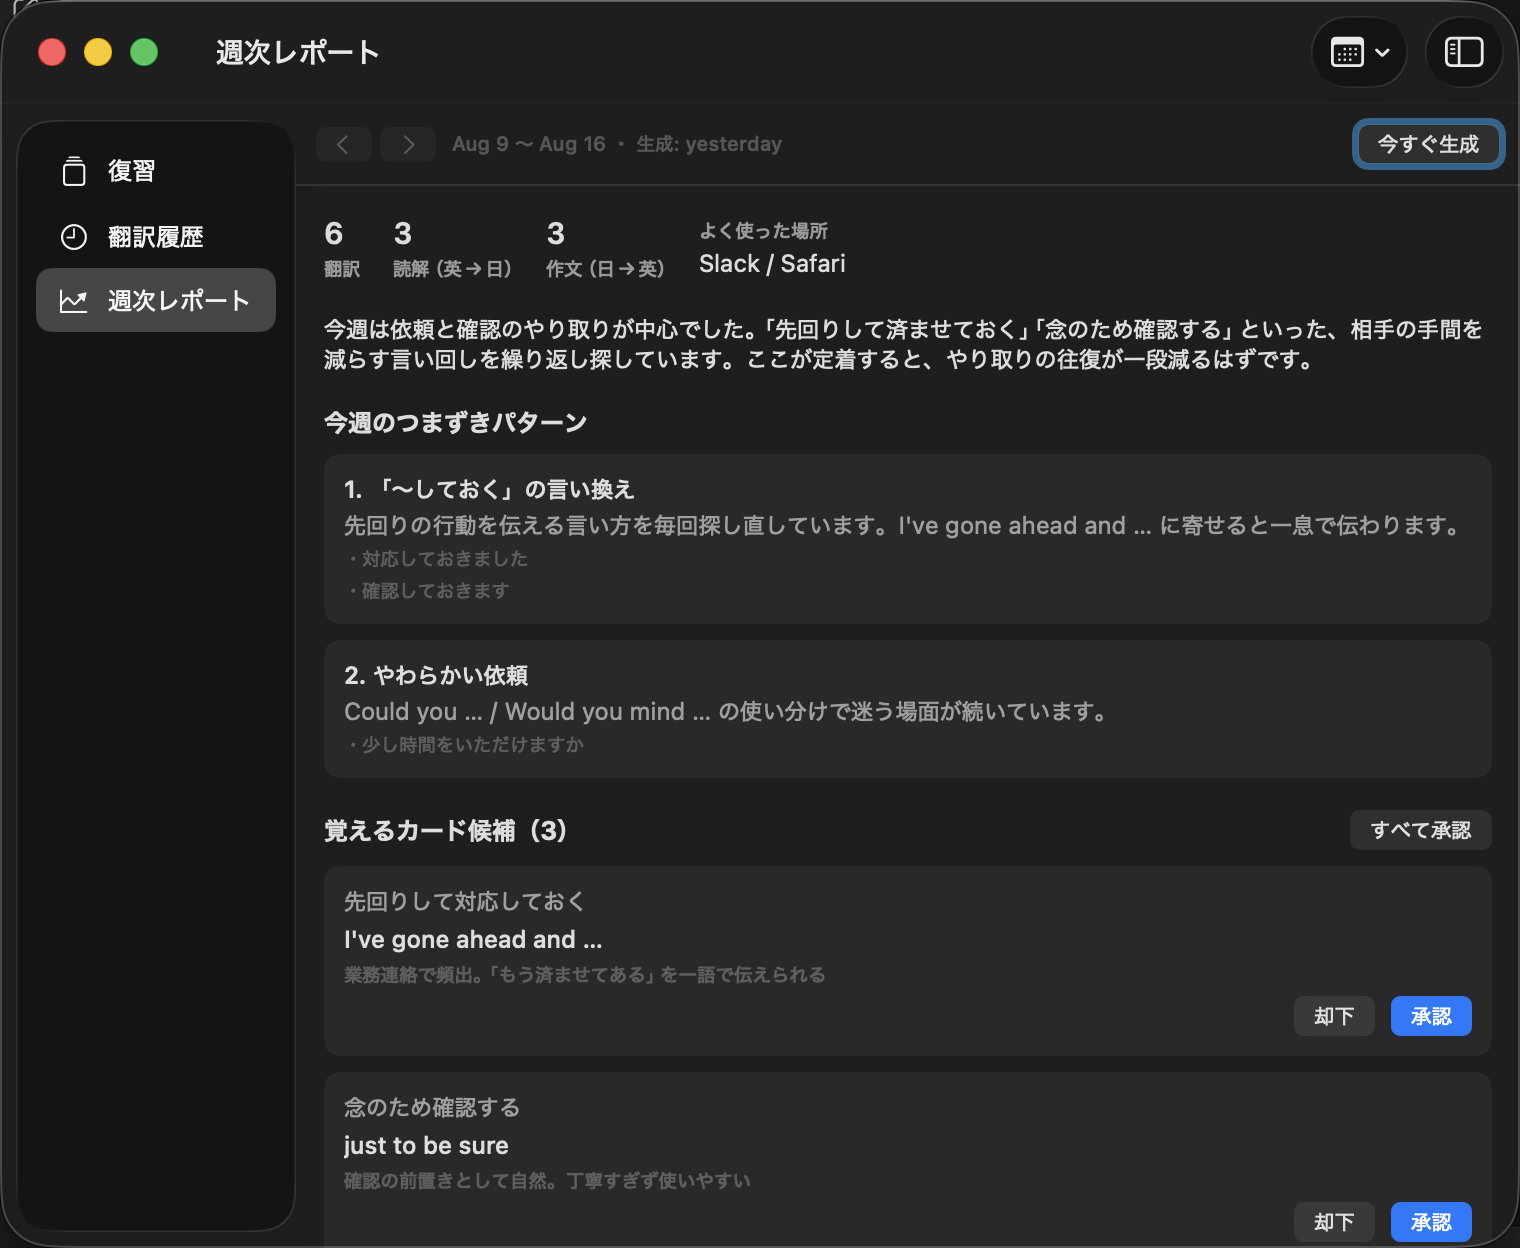
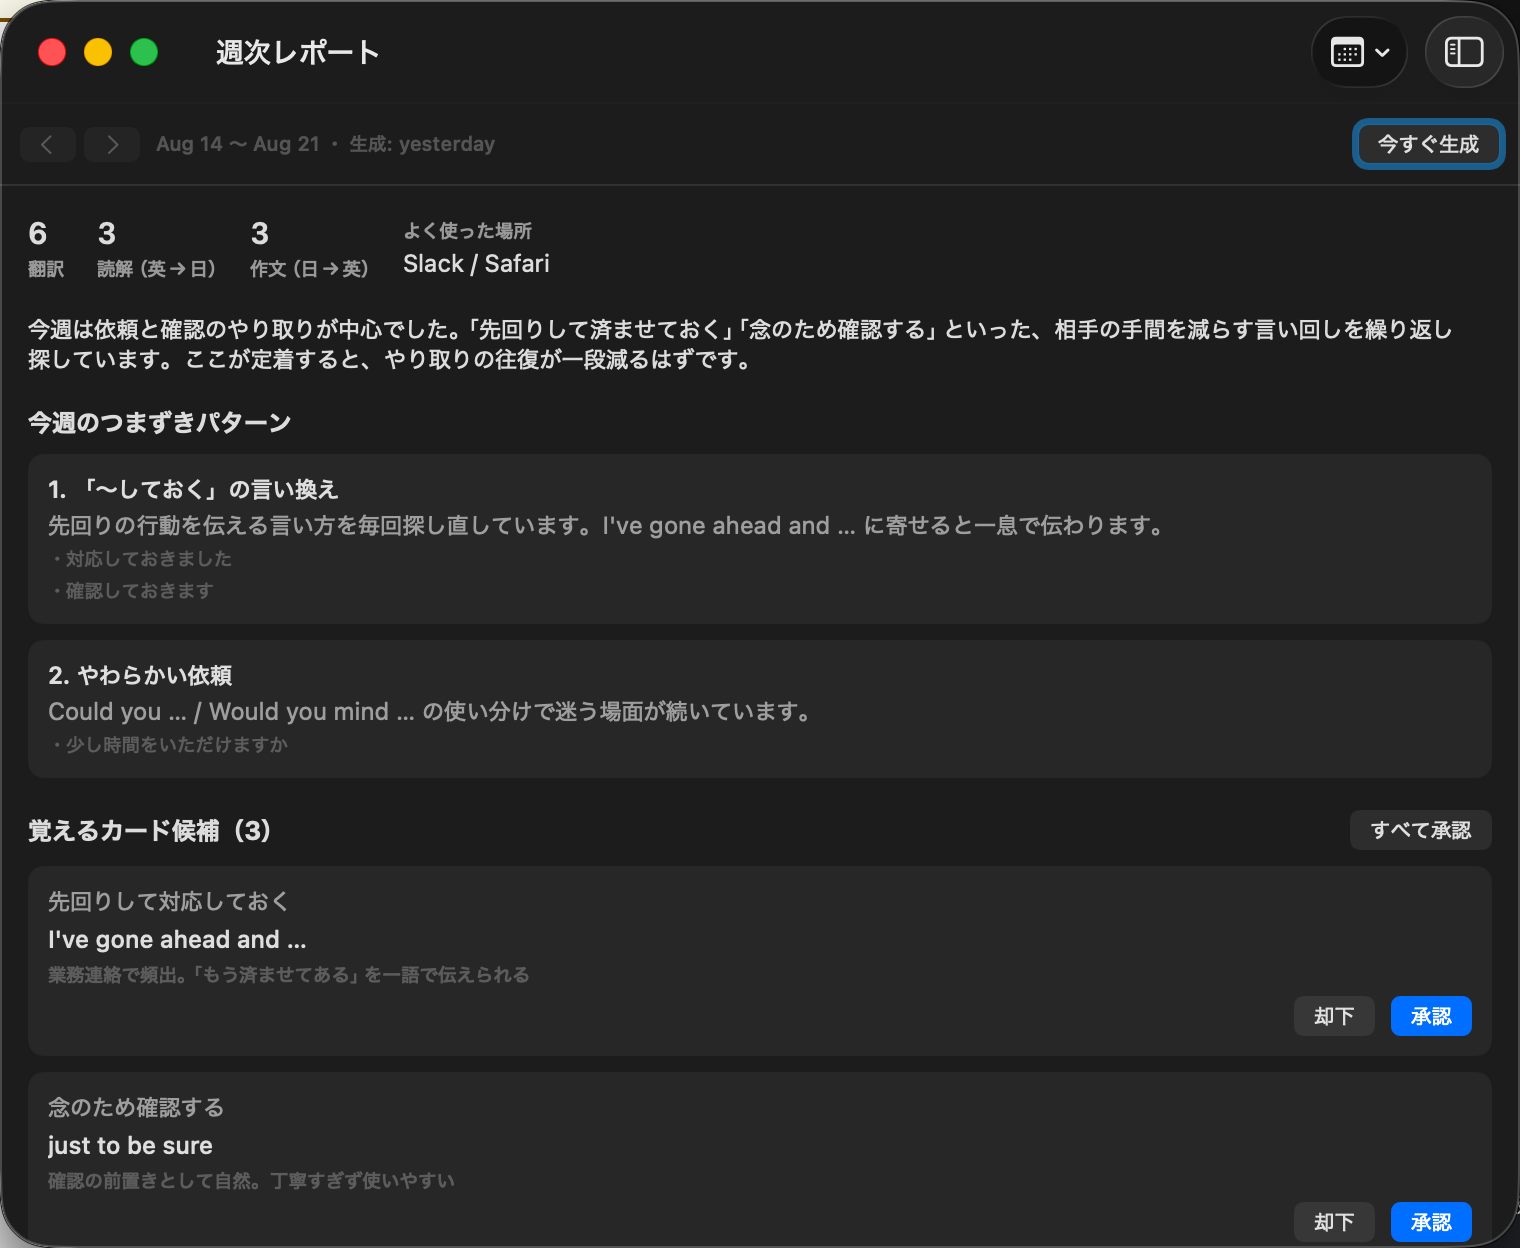
撮影: サイドバーを畳んで撮り、画面の帯を広げる
3枚のスクリーンショットに同じサイドバーが写っていて、横幅の約2割を
同じもので埋めていた。畳んでから撮るようにしたので、表示の大きさを
変えずに中身だけ大きくなる。

切り落とすのではなく畳むのは、切ると信号機ボタンごと消えて
「本物のウィンドウ」に見えなくなるため。

- 開閉はアプリが前回の状態を復元するので、畳まれるまでボタンを押す
- サイドバーの切り替えにショートカットは使わない。⌃⌘Sは環境によって
  入力ソースの切り替えに取られ、システム設定と許可ダイアログが開いた

あわせてサイトの画面セクションを広げた。1枚あたり239px→382px。

- figureの既定マージン（左右40px）を消した。1列あたり80pxを
  黙って食っていて、これが小さく見えていた最大の原因
- 画面の帯だけ本文より広く取る（64rem→76rem）。gapと枠の余白も詰めた

復習画面は余白が多いままにしてある。ウィンドウを小さくすれば密度は
上がるが、実際の画面をそのまま見せることを優先した。

diff --git a/Tests/KiokuUITests/Screenshots.swift b/Tests/KiokuUITests/Screenshots.swift
@@ -78,7 +78,25 @@ final class Screenshots: XCTestCase {
         // 表示とレイアウトが落ち着くのを待つ。DB監視の反映が1フレーム遅れることがある
         Thread.sleep(forTimeInterval: 1.5)
 
+        collapseSidebar(in: window)
+
         try write(window.screenshot().pngRepresentation, as: screen.fileName)
+    }
+
+    /// 3枚とも同じサイドバーが写るので畳んでから撮る。
+    /// 表示幅を変えずに中身だけ大きくできる（同じものが3回出ても意味がない）。
+    /// 開閉はアプリが前回の状態を復元するので、畳まれるまで押す
+    private func collapseSidebar(in window: XCUIElement) {
+        let toggle = window.buttons
+            .matching(NSPredicate(format: "label IN {'サイドバー', 'Sidebar'}")).firstMatch
+        guard toggle.waitForExistence(timeout: 5) else { return }
+        for _ in 0..<2 {
+            let sidebar = window.descendants(matching: .any)
+                .matching(NSPredicate(format: "label == 'Sidebar'")).firstMatch
+            guard sidebar.exists, sidebar.frame.width > 40 else { return }
+            toggle.click()
+            Thread.sleep(forTimeInterval: 1.2)
+        }
     }
 
     // MARK: - ポップアップ

diff --git a/sites/style.css b/sites/style.css
@@ -66,6 +66,9 @@ a { color: inherit; text-decoration: none; }
 
 img { display: block; width: 100%; height: auto; }
 
+/* figureの既定マージンは左右40px。列に入れると絵がその分だけ小さくなる */
+figure { margin: 0; }
+
 .wrap {
   width: min(100% - (var(--pad) * 2), var(--wrap));
   margin-inline: auto;
@@ -320,7 +323,14 @@ img { display: block; width: 100%; height: auto; }
 .trace-quiz .mono { font-family: var(--mono); font-size: 0.7rem; color: var(--faint); }
 
 /* ── 画面 ── */
-.screens { display: grid; grid-template-columns: repeat(3, 1fr); gap: 1.25rem; }
+
+/* 3列だと1枚が小さいので、この帯だけ本文より広く取る */
+.wrap.wide { --wrap: 76rem; }
+
+.screens { display: grid; grid-template-columns: repeat(3, 1fr); gap: 0.75rem; }
+
+/* 3列に並べると1枚が小さいので、枠の余白はここだけ詰めて絵を大きく取る */
+.screens .frame { padding: 0.4rem; }
 
 .screen { display: flex; flex-direction: column; gap: 1rem; }
 

diff --git a/sites/index.html b/sites/index.html
@@ -167,7 +167,7 @@
   </section>
 
   <section class="section band" id="screens">
-    <div class="wrap">
+    <div class="wrap wide">
       <div class="section-head">
         <h2 class="section-title">The app</h2>
         <span class="label">Screens</span>

diff --git a/sites/ja/index.html b/sites/ja/index.html
@@ -167,7 +167,7 @@
   </section>
 
   <section class="section band" id="screens">
-    <div class="wrap">
+    <div class="wrap wide">
       <div class="section-head">
         <h2 class="section-title">画面</h2>
         <span class="label">Screens</span>
